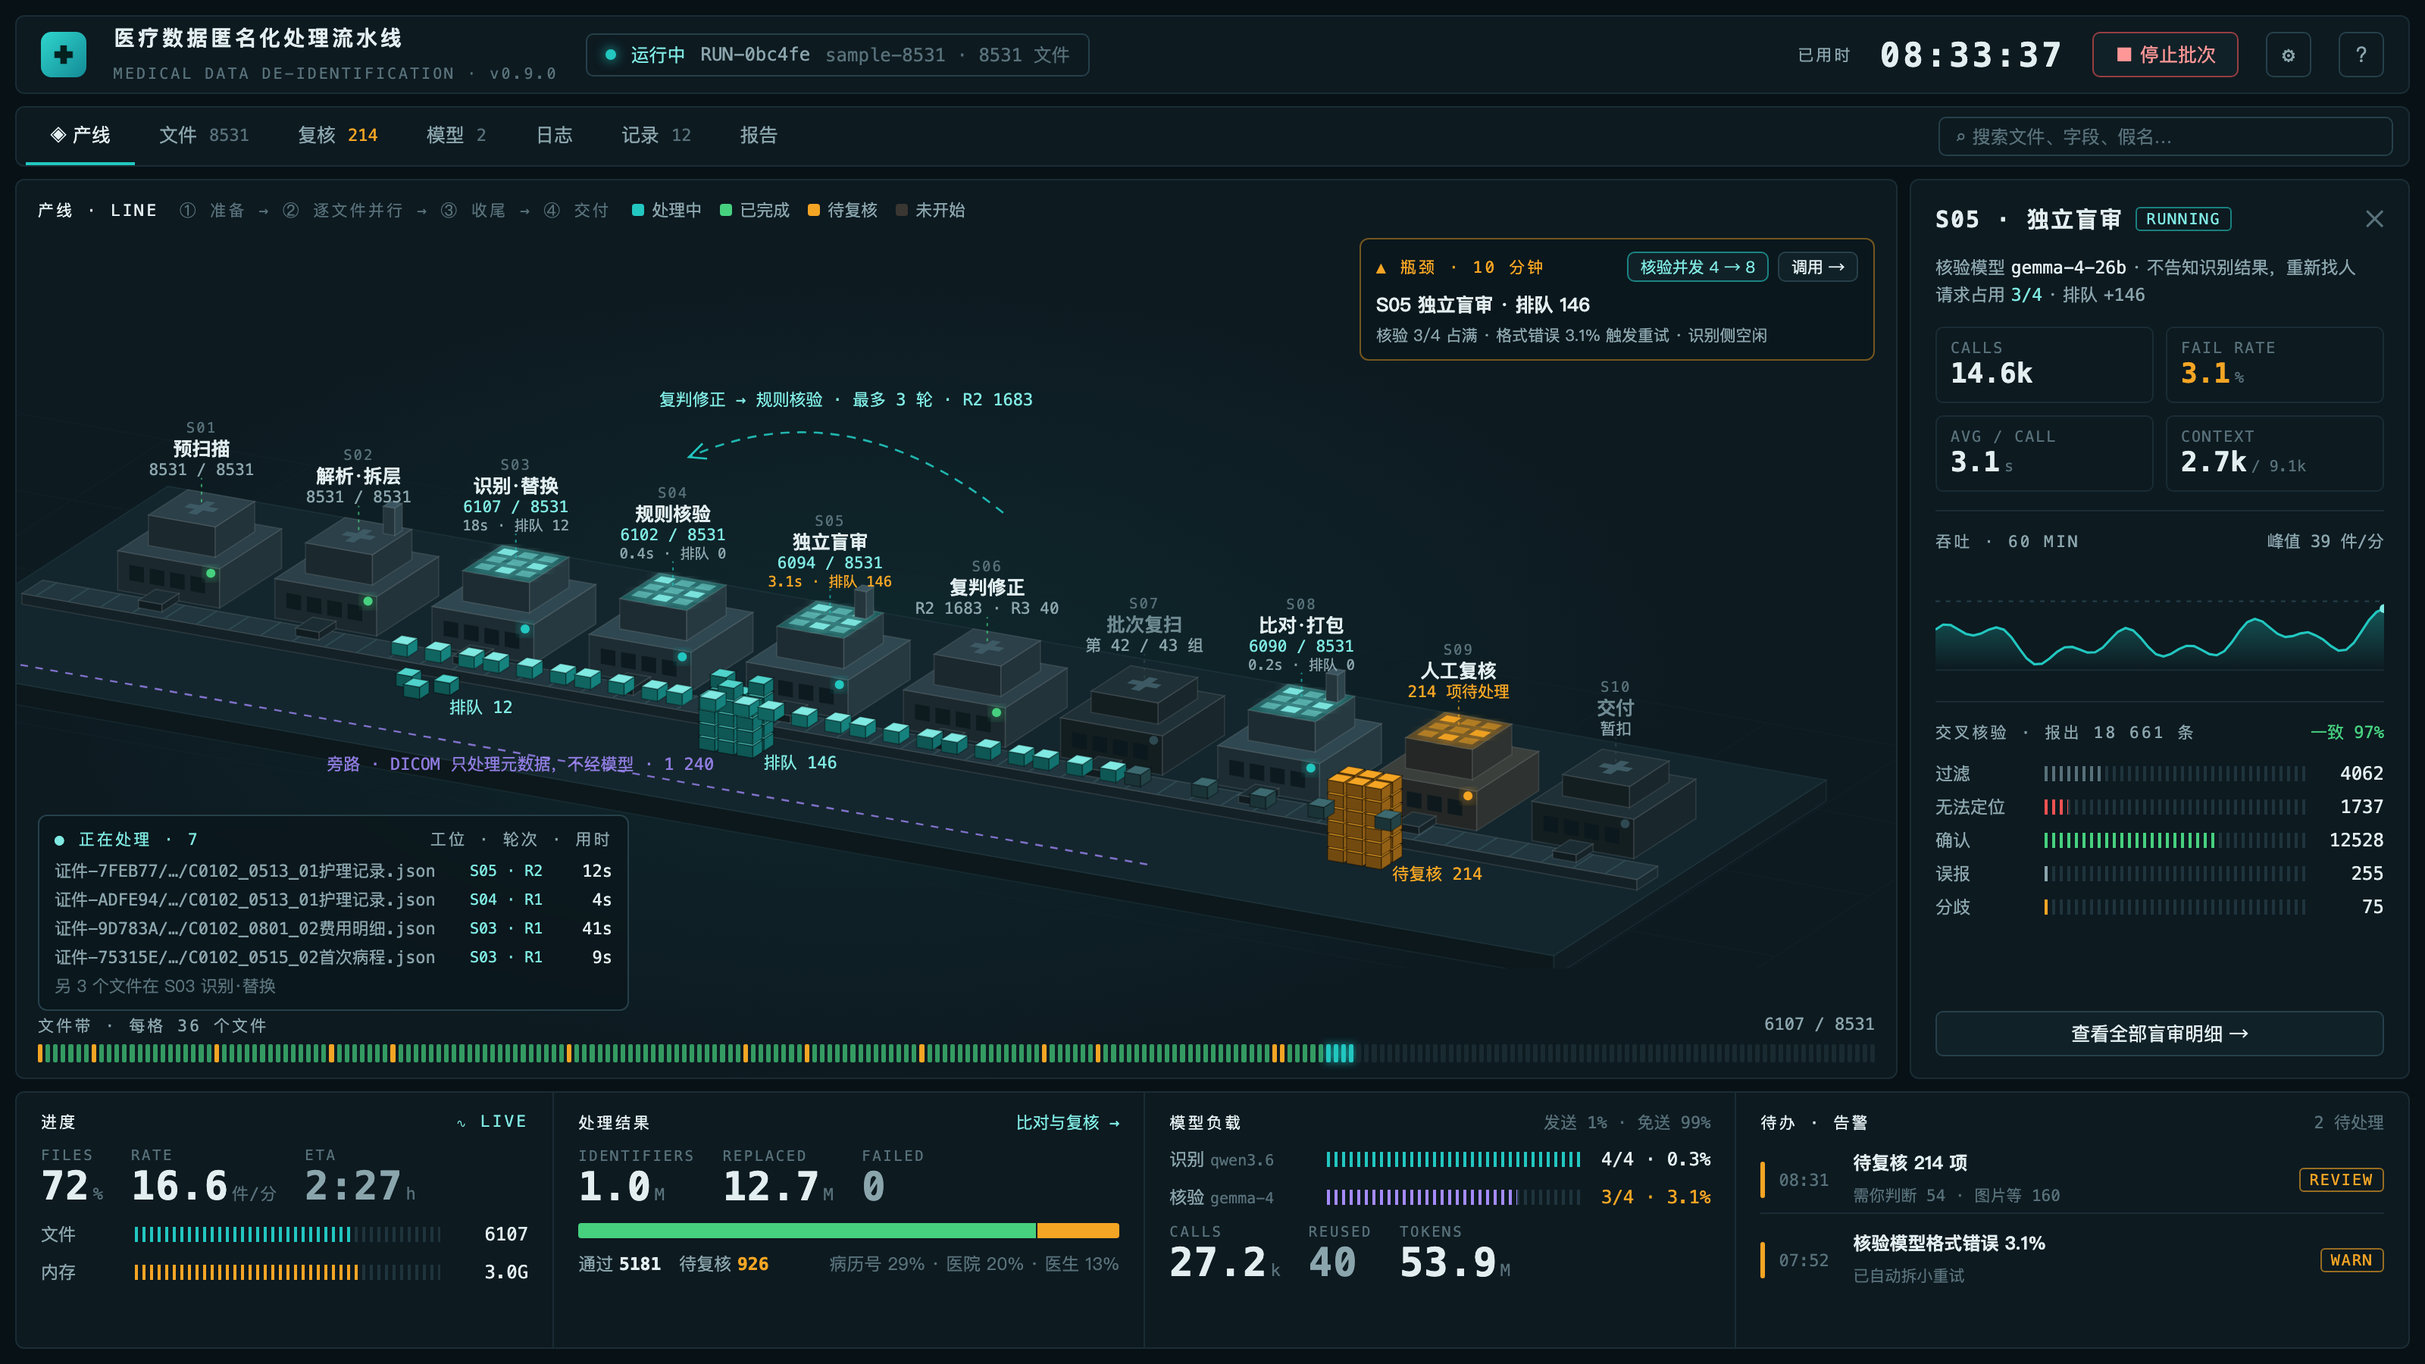
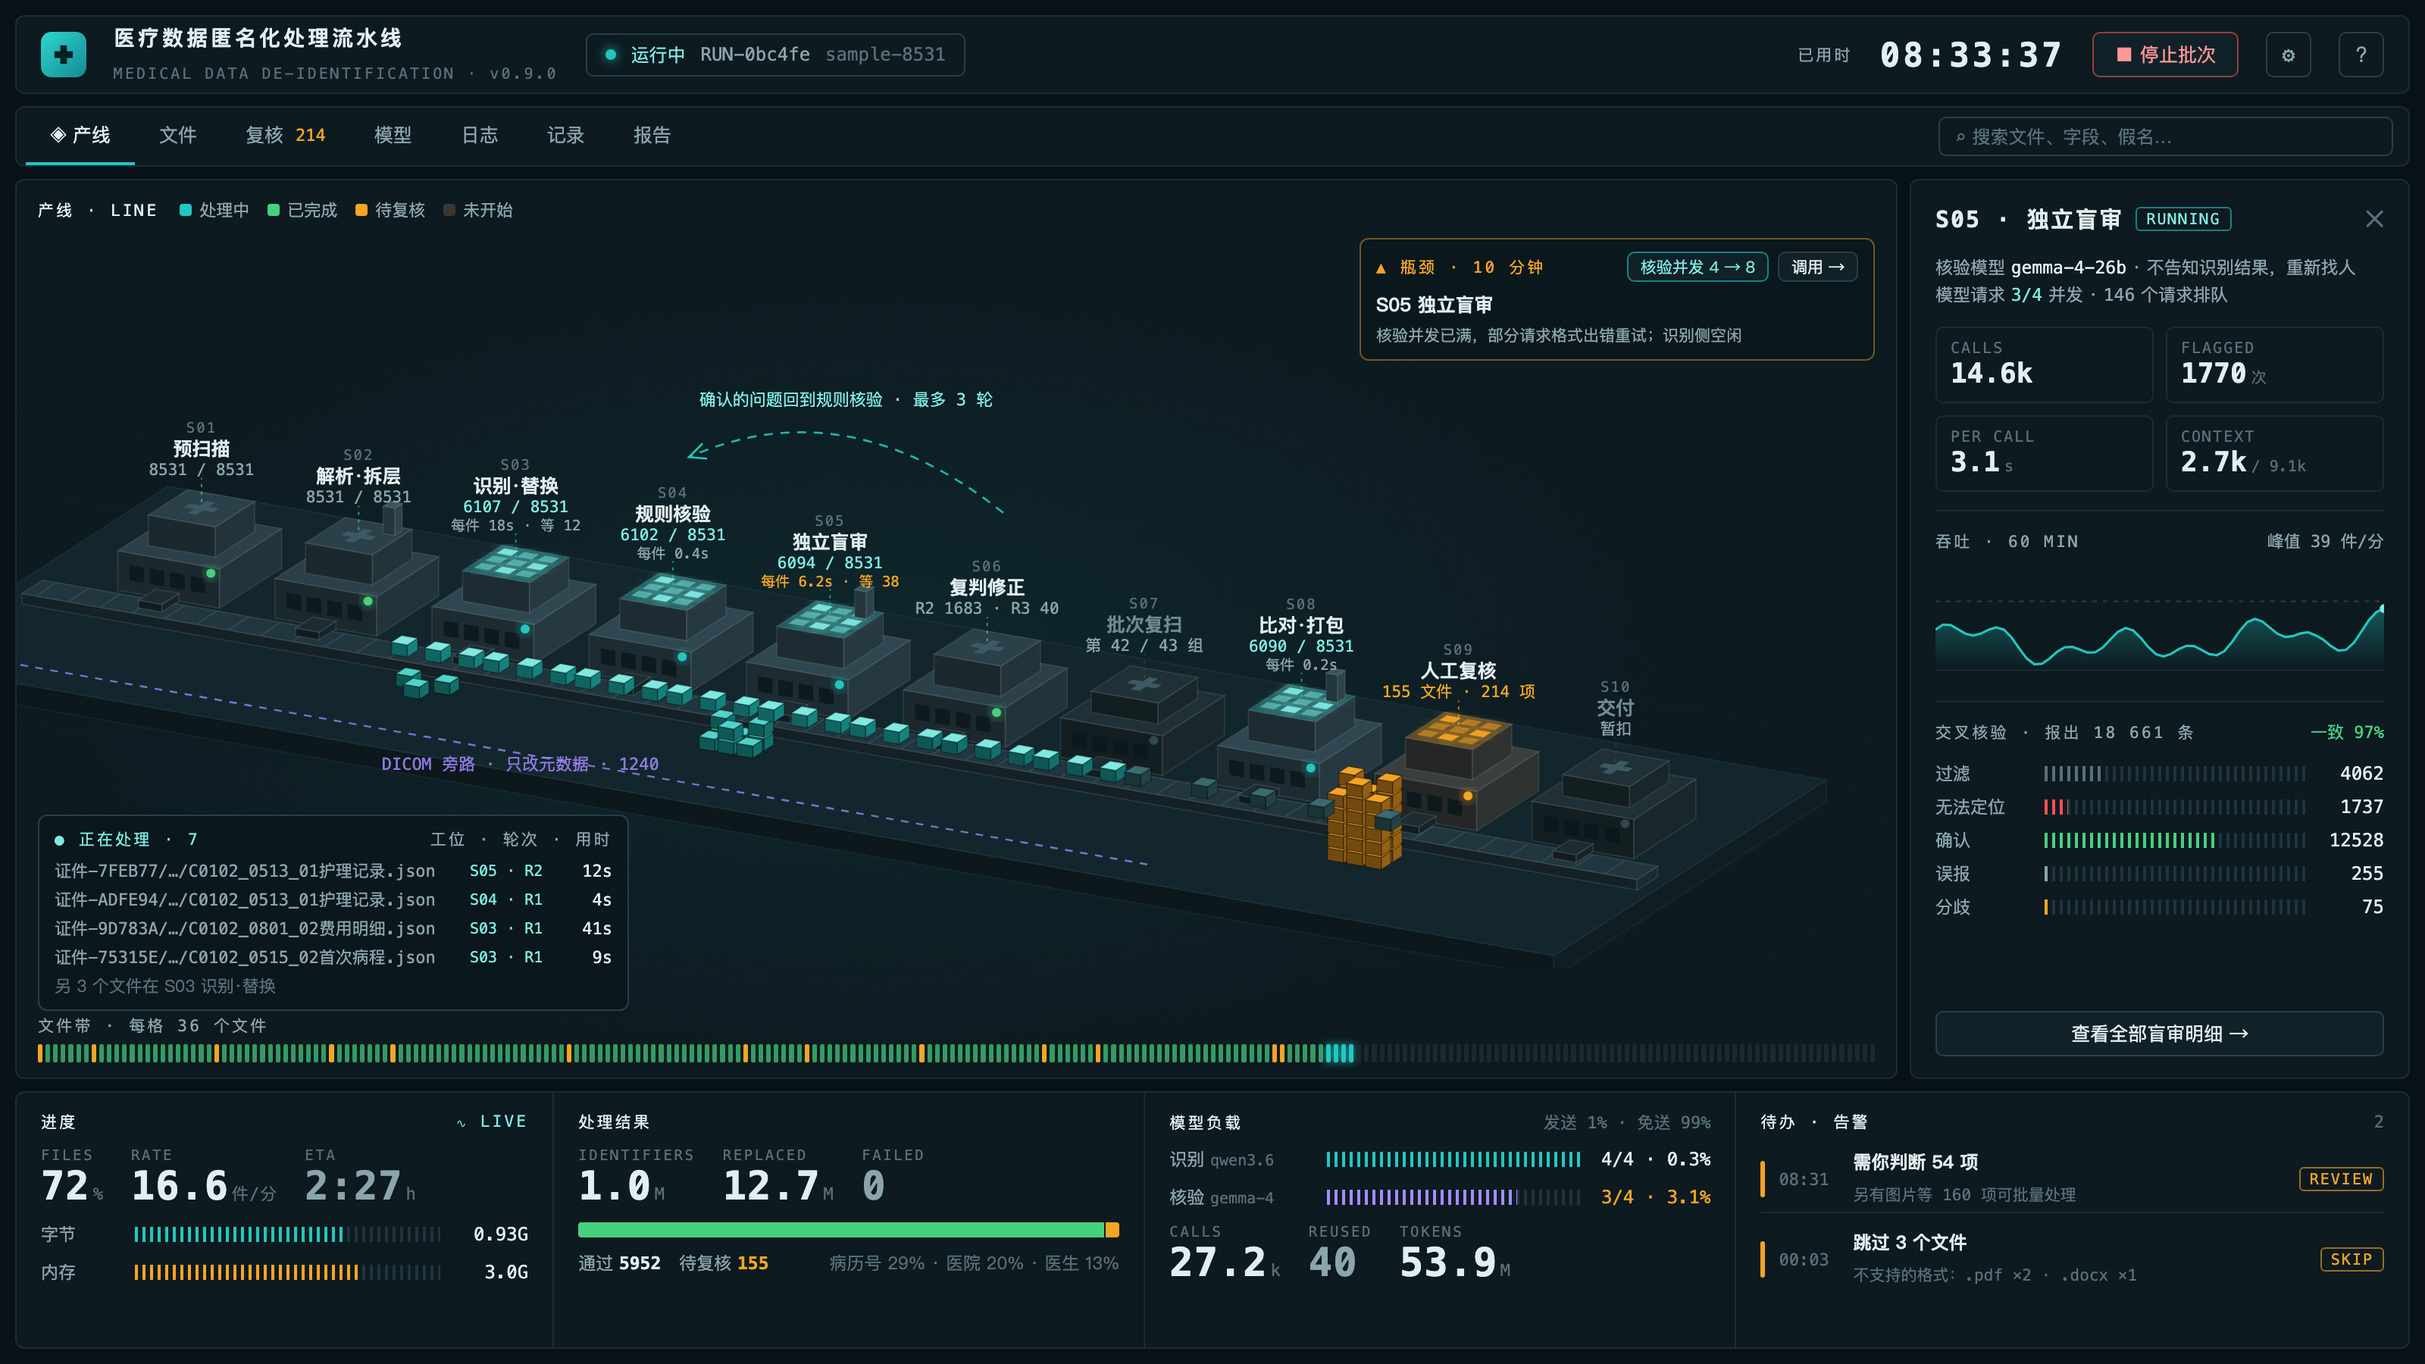
Mockup: remove duplicate numbers, separate file waits from request queues, consistent review counts

diff --git a/design/mockup-teal.html b/design/mockup-teal.html
@@ -112,7 +112,7 @@
   <div class="frame top">
     <div class="logo">✚</div>
     <div class="brand"><b>医疗数据匿名化处理流水线</b><span>MEDICAL DATA DE-IDENTIFICATION · v0.9.0</span></div>
-    <div class="live"><span class="dot"></span><span style="font-size:12px;color:var(--amber2)">运行中</span><span class="num">RUN-0bc4fe</span><span class="num" style="color:var(--ink3)">sample-8531 · 8531 文件</span></div>
+    <div class="live"><span class="dot"></span><span style="font-size:12px;color:var(--amber2)">运行中</span><span class="num">RUN-0bc4fe</span><span class="num" style="color:var(--ink3)">sample-8531</span></div>
     <div class="sp"></div>
     <div class="cap">已用时</div><div class="clock">08:33:37</div>
     <div class="btn stop">■ 停止批次</div>
@@ -122,11 +122,11 @@
   <!-- tabs -->
   <div class="frame tabs">
     <div class="tab on">◈ 产线</div>
-    <div class="tab">文件 <span class="num">8531</span></div>
+    <div class="tab">文件</div>
     <div class="tab hot">复核 <span class="num">214</span></div>
-    <div class="tab">模型 <span class="num">2</span></div>
+    <div class="tab">模型</div>
     <div class="tab">日志</div>
-    <div class="tab">记录 <span class="num">12</span></div>
+    <div class="tab">记录</div>
     <div class="tab">报告</div>
     <div class="sp"></div>
     <div class="search">⌕ 搜索文件、字段、假名…</div>
@@ -138,7 +138,6 @@
       <svg id="iso" viewBox="0 0 1240 520" preserveAspectRatio="xMidYMid meet"></svg>
       <div class="corner">
         <span class="cap" style="color:var(--ink)">产线 · LINE</span>
-        <span class="cap" style="color:var(--ink3)">① 准备 → ② 逐文件并行 → ③ 收尾 → ④ 交付</span>
         <div class="legend"><span><i style="background:var(--amber)"></i>处理中</span><span><i style="background:var(--ok)"></i>已完成</span><span><i style="background:var(--warn)"></i>待复核</span><span><i style="background:#3a3632"></i>未开始</span></div>
       </div>
       <div class="ov ov-tl">
@@ -151,22 +150,22 @@
       </div>
       <div class="ov ov-br">
         <div class="ovh"><span class="cap" style="color:var(--warn)">▲ 瓶颈 · 10 分钟</span><span style="display:flex;gap:6px"><span class="btn" style="height:20px;font-size:10.5px;padding:0 8px;border-color:rgba(34,199,192,.6);color:var(--amber2)">核验并发 4 → 8</span><span class="btn" style="height:20px;font-size:10.5px;padding:0 8px">调用 →</span></span></div>
-        <div style="font-size:12.5px;font-weight:600">S05 独立盲审 · 排队 146</div>
-        <div class="sub" style="font-size:10.5px;line-height:15px;white-space:nowrap">核验 3/4 占满 · 格式错误 3.1% 触发重试 · 识别侧空闲</div>
+        <div style="font-size:12.5px;font-weight:600">S05 独立盲审</div>
+        <div class="sub" style="font-size:10.5px;line-height:15px;white-space:nowrap">核验并发已满，部分请求格式出错重试；识别侧空闲</div>
       </div>
       <div class="strip">
-        <div class="row"><span class="cap">文件带 · 每格 36 个文件</span><span class="num" style="font-size:11px;color:var(--ink2)">6107 / 8531</span></div>
+        <div class="row"><span class="cap">文件带 · 每格 36 个文件</span></div>
         <div class="cells" id="cells"></div>
       </div>
     </div>
 
     <div class="frame drawer">
       <div class="dh"><b>S05 · 独立盲审</b><span class="chip run">RUNNING</span><span class="sp"></span><span style="color:var(--ink3)">✕</span></div>
-      <div class="sub">核验模型 <span class="num" style="color:var(--ink)">gemma-4-26b</span> · 不告知识别结果，重新找人<br>请求占用 <span class="num" style="color:var(--amber2)">3/4</span> · 排队 <span class="num">+146</span></div>
+      <div class="sub">核验模型 <span class="num" style="color:var(--ink)">gemma-4-26b</span> · 不告知识别结果，重新找人<br>模型请求 <span class="num" style="color:var(--amber2)">3/4</span> 并发 · <span class="num">146</span> 个请求排队</div>
       <div class="kv">
         <div><span>CALLS</span><b>14.6k</b></div>
-        <div><span>FAIL RATE</span><b style="color:var(--warn)">3.1<small>%</small></b></div>
-        <div><span>AVG / CALL</span><b>3.1<small>s</small></b></div>
+        <div><span>FLAGGED</span><b>1770<small>次</small></b></div>
+        <div><span>PER CALL</span><b>3.1<small>s</small></b></div>
         <div><span>CONTEXT</span><b>2.7k<small>/ 9.1k</small></b></div>
       </div>
       <div class="sep"></div>
@@ -197,14 +196,14 @@
     <div class="bp">
       <div class="bh"><span class="cap" style="color:var(--ink)">进度</span><span class="cap" style="color:var(--amber2)">∿ LIVE</span></div>
       <div class="big"><div><span>FILES</span><b>72<small>%</small></b></div><div><span>RATE</span><b>16.6<small>件/分</small></b></div><div><span>ETA</span><b style="color:var(--ink2)">2:27<small>h</small></b></div></div>
-      <div class="bar"><span>文件</span><div class="track"><div class="ticks" style="--w:72%"></div></div><span class="num">6107</span></div>
+      <div class="bar"><span>字节</span><div class="track"><div class="ticks" style="--w:68%"></div></div><span class="num">0.93G</span></div>
       <div class="bar"><span>内存</span><div class="track"><div class="ticks" style="--w:73%;--fill:var(--warn)"></div></div><span class="num">3.0G</span></div>
     </div>
     <div class="bp">
-      <div class="bh"><span class="cap" style="color:var(--ink)">处理结果</span><span class="num" style="font-size:11px;color:var(--amber2)">比对与复核 →</span></div>
+      <div class="bh"><span class="cap" style="color:var(--ink)">处理结果</span></div>
       <div class="big"><div><span>IDENTIFIERS</span><b>1.0<small>M</small></b></div><div><span>REPLACED</span><b>12.7<small>M</small></b></div><div><span>FAILED</span><b style="color:var(--ink2)">0</b></div></div>
-      <div style="display:flex;height:10px;gap:1px;border-radius:2px;overflow:hidden"><i style="flex:5181;background:var(--ok)"></i><i style="flex:926;background:var(--warn)"></i></div>
-      <div style="display:flex;gap:12px;font-size:11.5px;color:var(--ink2);white-space:nowrap"><span>通过 <b class="num" style="color:var(--ink)">5181</b></span><span>待复核 <b class="num" style="color:var(--warn)">926</b></span><span style="margin-left:auto;color:var(--ink3)">病历号 29% · 医院 20% · 医生 13%</span></div>
+      <div style="display:flex;height:10px;gap:1px;border-radius:2px;overflow:hidden"><i style="flex:5952;background:var(--ok)"></i><i style="flex:155;background:var(--warn)"></i></div>
+      <div style="display:flex;gap:12px;font-size:11.5px;color:var(--ink2);white-space:nowrap"><span>通过 <b class="num" style="color:var(--ink)">5952</b></span><span>待复核 <b class="num" style="color:var(--warn)">155</b></span><span style="margin-left:auto;color:var(--ink3)">病历号 29% · 医院 20% · 医生 13%</span></div>
     </div>
     <div class="bp">
       <div class="bh"><span class="cap" style="color:var(--ink)">模型负载</span><span class="num" style="font-size:11px;color:var(--ink3)">发送 1% · 免送 99%</span></div>
@@ -213,9 +212,9 @@
       <div class="big"><div><span>CALLS</span><b>27.2<small>k</small></b></div><div><span>REUSED</span><b style="color:var(--ink2)">40</b></div><div><span>TOKENS</span><b>53.9<small>M</small></b></div></div>
     </div>
     <div class="bp">
-      <div class="bh"><span class="cap" style="color:var(--ink)">待办 · 告警</span><span class="num" style="font-size:11px;color:var(--ink3)">2 待处理</span></div>
-      <div class="alert"><i class="rail" style="background:var(--warn)"></i><span class="t">08:31</span><div><b>待复核 214 项</b><small>需你判断 54 · 图片等 160</small></div><span class="chip warn">REVIEW</span></div>
-      <div class="alert"><i class="rail" style="background:var(--warn)"></i><span class="t">07:52</span><div><b>核验模型格式错误 3.1%</b><small>已自动拆小重试</small></div><span class="chip warn">WARN</span></div>
+      <div class="bh"><span class="cap" style="color:var(--ink)">待办 · 告警</span><span class="num" style="font-size:11px;color:var(--ink3)">2</span></div>
+      <div class="alert"><i class="rail" style="background:var(--warn)"></i><span class="t">08:31</span><div><b>需你判断 54 项</b><small>另有图片等 160 项可批量处理</small></div><span class="chip warn">REVIEW</span></div>
+      <div class="alert"><i class="rail" style="background:var(--warn)"></i><span class="t">00:03</span><div><b>跳过 3 个文件</b><small>不支持的格式：.pdf ×2 · .docx ×1</small></div><span class="chip warn">SKIP</span></div>
     </div>
   </div>
 </div>
@@ -258,9 +257,9 @@ box(-60, -60, -14, 1140, 290, 14, '#14262d', { stroke: 'rgba(160,230,235,.07)' }
 
 const ST = [
   // [code, name, state, line 1: passed / total (or the station's own unit), line 2: avg time · queue (running only)]
-  ['S01', '预扫描', 'done', '8531 / 8531', ''], ['S02', '解析·拆层', 'done', '8531 / 8531', ''], ['S03', '识别·替换', 'active', '6107 / 8531', '18s · 排队 12'],
-  ['S04', '规则核验', 'active', '6102 / 8531', '0.4s · 排队 0'], ['S05', '独立盲审', 'active', '6094 / 8531', '3.1s · 排队 146'], ['S06', '复判修正', 'done', 'R2 1683 · R3 40', ''],
-  ['S07', '批次复扫', 'idle', '第 42 / 43 组', ''], ['S08', '比对·打包', 'active', '6090 / 8531', '0.2s · 排队 0'], ['S09', '人工复核', 'warn', '214 项待处理', ''], ['S10', '交付', 'idle', '暂扣', ''],
+  ['S01', '预扫描', 'done', '8531 / 8531', ''], ['S02', '解析·拆层', 'done', '8531 / 8531', ''], ['S03', '识别·替换', 'active', '6107 / 8531', '每件 18s · 等 12'],
+  ['S04', '规则核验', 'active', '6102 / 8531', '每件 0.4s'], ['S05', '独立盲审', 'active', '6094 / 8531', '每件 6.2s · 等 38'], ['S06', '复判修正', 'done', 'R2 1683 · R3 40', ''],
+  ['S07', '批次复扫', 'idle', '第 42 / 43 组', ''], ['S08', '比对·打包', 'active', '6090 / 8531', '每件 0.2s'], ['S09', '人工复核', 'warn', '155 文件 · 214 项', ''], ['S10', '交付', 'idle', '暂扣', ''],
 ]
 const STEP = 108
 const pools = el('g', {})
@@ -274,7 +273,7 @@ for (let x = -30; x < 1070; x += 22) { const a = P(x, 104, 7.2), b = P(x, 126, 7
   const a = P(10, 205, 0), b = P(STEP * 7 + 30, 205, 0)
   el('line', { x1: a[0], y1: a[1], x2: b[0], y2: b[1], stroke: '#a58bff', 'stroke-width': 1.2, 'stroke-dasharray': '5 5', opacity: .75 })
   const m = P(STEP * 3.4, 226, 0)
-  el('text', { x: m[0], y: m[1], fill: '#a58bff', 'font-size': 11, 'font-family': 'SF Mono, Menlo, monospace', 'text-anchor': 'middle', opacity: .85 }).textContent = '旁路 · DICOM 只处理元数据，不经模型 · 1 240'
+  el('text', { x: m[0], y: m[1], fill: '#a58bff', 'font-size': 11, 'font-family': 'SF Mono, Menlo, monospace', 'text-anchor': 'middle', opacity: .85 }).textContent = 'DICOM 旁路 · 只改元数据 · 1240'
 })()
 
 const COLORS = { done: '#2c4049', active: '#2f4750', warn: '#3a3f3c', idle: '#1f3036' }
@@ -317,19 +316,17 @@ ST.forEach(([code, name, state, stat, line2], i) => {
   el('text', { x: lx, y: top + 4, fill: '#58717a', 'font-size': 9.5, 'font-family': 'SF Mono, Menlo, monospace', 'text-anchor': 'middle', 'letter-spacing': 1 }).textContent = code
   el('text', { x: lx, y: top + 19, fill: state === 'idle' ? '#6f8a92' : '#e2eef0', 'font-size': 12.5, 'font-weight': 600, 'text-anchor': 'middle' }).textContent = name
   el('text', { x: lx, y: top + 32, fill: state === 'warn' ? '#f5a524' : state === 'active' ? '#7fe9e2' : '#8ba5ad', 'font-size': 10.5, 'font-family': 'SF Mono, Menlo, monospace', 'text-anchor': 'middle' }).textContent = stat
-  if (line2) el('text', { x: lx, y: top + 44, fill: line2.includes('排队 146') ? '#f5a524' : '#8ba5ad', 'font-size': 9.5, 'font-family': 'SF Mono, Menlo, monospace', 'text-anchor': 'middle' }).textContent = line2
+  if (line2) el('text', { x: lx, y: top + 44, fill: line2.includes('等 38') ? '#f5a524' : '#8ba5ad', 'font-size': 9.5, 'font-family': 'SF Mono, Menlo, monospace', 'text-anchor': 'middle' }).textContent = line2
 })
 
 // waiting files piled in front of each station: height = queue length
-const piles = [[2, 12, 'q'], [4, 146, 'q'], [8, 214, 'w']]
+const piles = [[2, 12, 'q'], [4, 38, 'q'], [8, 155, 'w']]
 piles.forEach(([i, n, kind]) => {
   const levels = Math.min(6, Math.ceil(n / 30)), x0 = i * STEP + 14, y0 = 136
   for (let lv = 0; lv < levels; lv++) for (let a = 0; a < 3; a++) for (let b = 0; b < 2; b++) {
     if (lv === levels - 1 && (a + b) % 2 && n < 200) continue
     box(x0 + a * 13, y0 + b * 12, lv * 9, 11, 10, 8, kind === 'w' ? '#b8781a' : '#178d89', { top: kind === 'w' ? '#f5a524' : '#4fd3cb', stroke: 'rgba(0,0,0,.35)' })
   }
-  const t = P(x0 + 20, y0 + 26, 0)
-  el('text', { x: t[0] + 26, y: t[1] + 8, fill: kind === 'w' ? '#f5a524' : '#7fe9e2', 'font-size': 11, 'font-family': 'SF Mono, Menlo, monospace' }).textContent = kind === 'w' ? `待复核 ${n}` : `排队 ${n}`
 })
 
 // files on the belt
@@ -347,7 +344,7 @@ for (let k = 0; k < 34; k++) {
   const mx = (a[0] + b[0]) / 2, my = Math.min(a[1], b[1]) - 46
   el('path', { d: `M${a[0]},${a[1]} Q${mx},${my} ${b[0]},${b[1]}`, fill: 'none', stroke: '#22c7c0', 'stroke-width': 1.3, 'stroke-dasharray': '6 5', opacity: .9 })
   el('path', { d: `M${b[0] + 9},${b[1] - 9} L${b[0]},${b[1]} L${b[0] + 12},${b[1] + 1}`, fill: 'none', stroke: '#22c7c0', 'stroke-width': 1.3 })
-  el('text', { x: mx, y: my + 12, fill: '#7fe9e2', 'font-size': 11, 'text-anchor': 'middle', 'font-family': 'SF Mono, Menlo, monospace' }).textContent = '复判修正 → 规则核验 · 最多 3 轮 · R2 1683'
+  el('text', { x: mx, y: my + 12, fill: '#7fe9e2', 'font-size': 11, 'text-anchor': 'middle', 'font-family': 'SF Mono, Menlo, monospace' }).textContent = '确认的问题回到规则核验 · 最多 3 轮'
 })()
 
 
